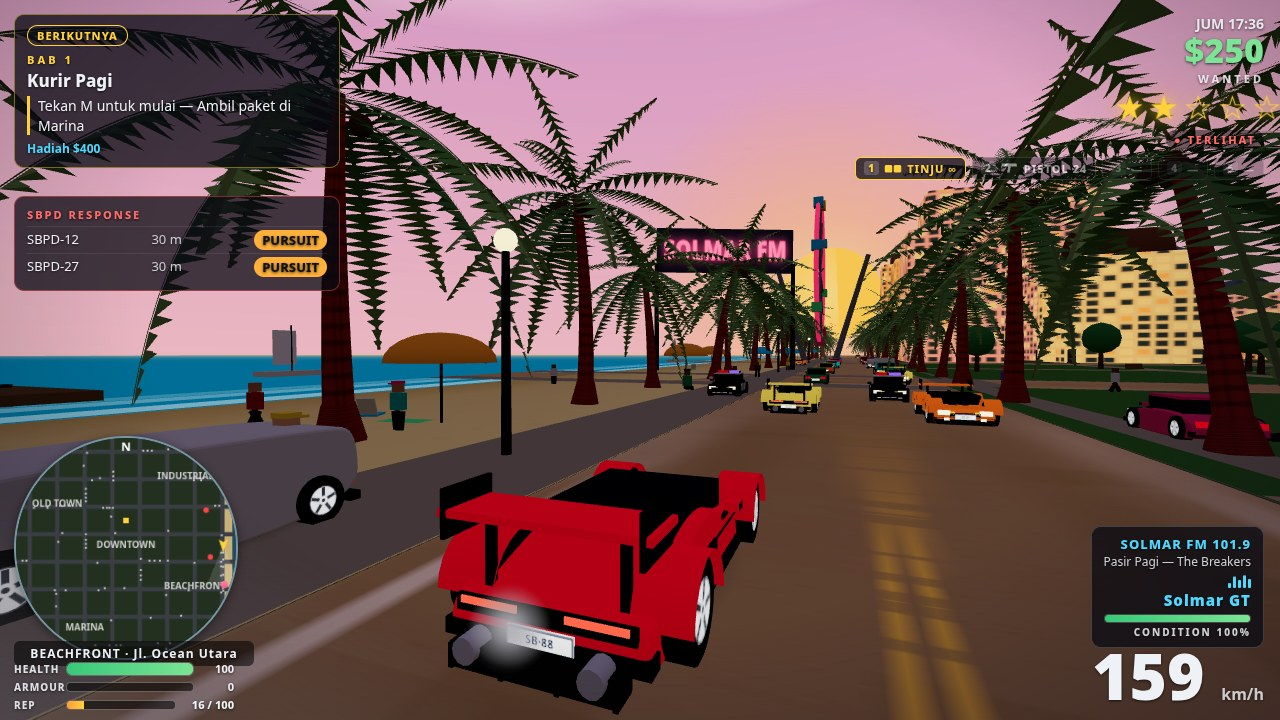
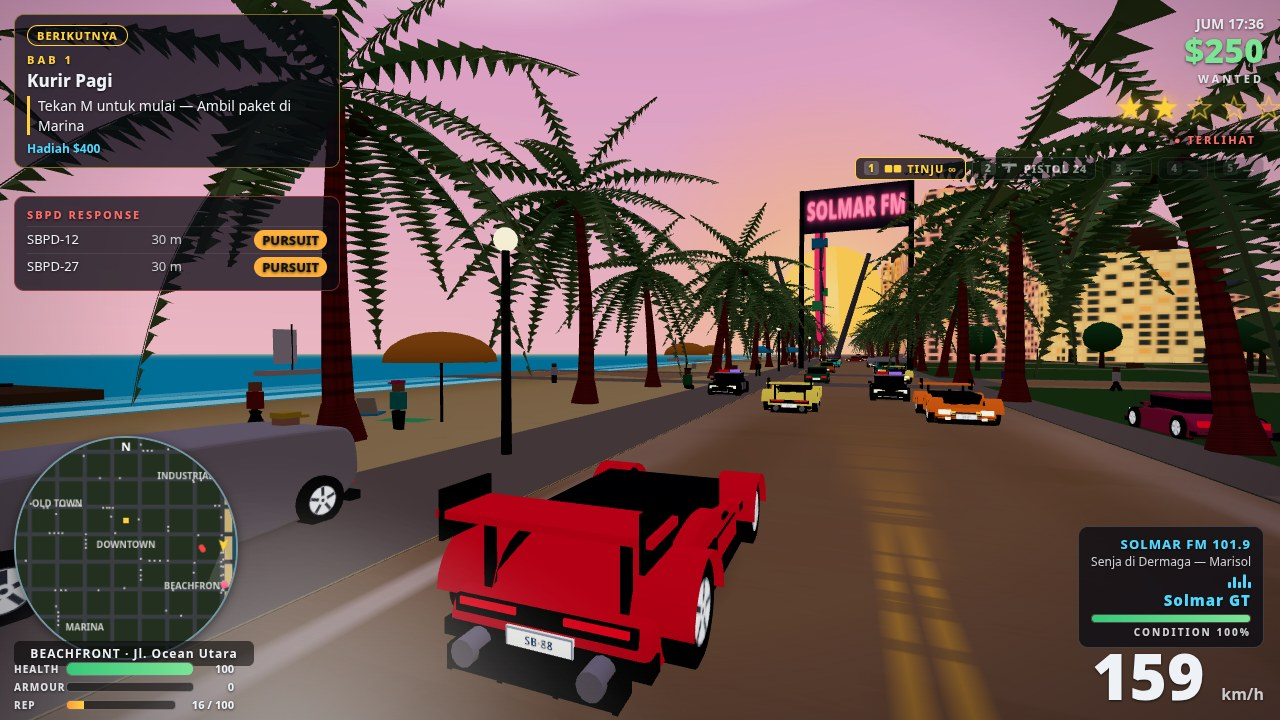
polish r12: rounded frond tips, clear billboard, deep-red taillights

diff --git a/game/src/city.js b/game/src/city.js
@@ -948,6 +948,50 @@ export function buildCity(scene, rng) {
       indices.push(vi, vi + 1, vi + 2);
       vi += 3;
     }
+    function quad(a, b, c, d, color) {
+      tri(a, b, c, color);
+      tri(a, c, d, color);
+    }
+    // Blunt tip for a leaflet blade: instead of one sharp apex (which
+    // reads as a needle up close), the blade ends in a short tip edge
+    // pulled back from the apex, so the tip is a soft rounded rectangle,
+    // not a spike. `a`/`b` are the base edge on the rib, `apex` the old
+    // sharp tip; returns the quad's four corners.
+    function bluntBlade(a, b, apex, pullBack, tipHalf) {
+      const mx = (a[0] + b[0]) / 2;
+      const my = (a[1] + b[1]) / 2;
+      const mz = (a[2] + b[2]) / 2;
+      let ax = apex[0] - mx;
+      let ay = apex[1] - my;
+      let az = apex[2] - mz;
+      const alen = Math.hypot(ax, ay, az) || 1;
+      ax /= alen;
+      ay /= alen;
+      az /= alen;
+      // In-plane perpendicular to the blade axis.
+      let px = (b[0] - a[0]);
+      let py = (b[1] - a[1]);
+      let pz = (b[2] - a[2]);
+      // perp = normalize(cross(axis, baseEdge)) — lies in the blade plane.
+      let qx = ay * pz - az * py;
+      let qy = az * px - ax * pz;
+      let qz = ax * py - ay * px;
+      const qlen = Math.hypot(qx, qy, qz) || 1;
+      qx /= qlen;
+      qy /= qlen;
+      qz /= qlen;
+      const t1 = [
+        apex[0] - ax * pullBack + qx * tipHalf,
+        apex[1] - ay * pullBack + qy * tipHalf,
+        apex[2] - az * pullBack + qz * tipHalf,
+      ];
+      const t2 = [
+        apex[0] - ax * pullBack - qx * tipHalf,
+        apex[1] - ay * pullBack - qy * tipHalf,
+        apex[2] - az * pullBack - qz * tipHalf,
+      ];
+      return [a, b, t2, t1];
+    }
     // Central rib: a thin dark-olive strip along the curve, the frond's
     // visible spine.
     const ribCol = [0.30, 0.42, 0.16].map((v) => v * shade);
@@ -961,7 +1005,8 @@ export function buildCity(scene, rng) {
     // Leaflets: TWO overlapping blades per side at each station. Blade A
     // sweeps back along the rib; blade B sits half a station further out
     // and hangs lower, so the frond's edge reads as a full feather, not
-    // a row of separate needles.
+    // a row of separate needles. Each blade is a blunt-tipped quad, not
+    // a sharp triangle, so the leaflet tips read rounded up close.
     for (let i = 1; i < stations; i += 1) {
       const p = rib[i];
       const pNext = rib[i + 1];
@@ -977,7 +1022,9 @@ export function buildCity(scene, rng) {
           p.y + dirY * L * 0.1 - L * 0.2,
           side * L,
         ];
-        tri([p.x, p.y, 0], [p.x + dirX * segLen * 0.6, p.y + dirY * segLen * 0.6, 0], tipA, col);
+        const baseA0 = [p.x, p.y, 0];
+        const baseA1 = [p.x + dirX * segLen * 0.6, p.y + dirY * segLen * 0.6, 0];
+        quad(...bluntBlade(baseA0, baseA1, tipA, L * 0.2, L * 0.16), col);
         // Blade B: shorter, steeper, hanging below blade A.
         const pB = { x: p.x + dirX * segLen * 0.5, y: p.y + dirY * segLen * 0.5 };
         const tipB = [
@@ -985,7 +1032,9 @@ export function buildCity(scene, rng) {
           pB.y - L * 0.38,
           side * L * 0.82,
         ];
-        tri([pB.x, pB.y, 0], [pB.x + dirX * segLen * 0.45, pB.y + dirY * segLen * 0.45, 0], tipB, col);
+        const baseB0 = [pB.x, pB.y, 0];
+        const baseB1 = [pB.x + dirX * segLen * 0.45, pB.y + dirY * segLen * 0.45, 0];
+        quad(...bluntBlade(baseB0, baseB1, tipB, L * 0.16, L * 0.13), col);
       }
     }
     const geo = new THREE.BufferGeometry();
@@ -1177,13 +1226,37 @@ export function buildCity(scene, rng) {
   billboard(-45, -140, 0, 'SOLMAR BAY', '#4fd8ff');
   billboard(135, 140, Math.PI, 'CASINO', '#ff5e8a');
   billboard(45, 270, 0, 'PIZZA 24H', '#ffb13b');
-  // The reference's giant pink radio billboard — on the SAND side of the
-  // beach road, angled to face the southbound chase cam, so the whole
-  // panel reads (a west-side board hides behind the hotel wall). Our own
-  // station, SOLMAR FM, never the reference's brand. It sits at z=70,
-  // clear of the foreground palm that used to cut it in half in the drive
-  // shot, and the panel rides higher (16 m) than the palm crowns.
-  billboard(334, 70, -2.7, 'SOLMAR FM', '#ff5e8a', true);
+  // The reference's giant pink radio billboard — as an OVERHEAD GANTRY
+  // spanning the Ocean boulevard, not a roadside board. A roadside board
+  // can never read clean here: the drive/chase cameras sit low on the
+  // road, so their sightline to any distant panel crosses the palm
+  // crowns (frond tips reach ~18 m) at every palm between camera and
+  // board — moving it or skipping a few palms just hands the job to the
+  // next palm down the line. The gantry panel hangs over the road
+  // itself, 22–29 m up (above every frond tip), and only 16 m wide so
+  // its text stays over the road centre, clear of both palm lines — with
+  // nothing but open road between the cameras and the panel, SOLMAR FM
+  // reads FULL and CLEAN in every beach-road shot. Our own station,
+  // never the reference's brand. The panel faces north, toward the
+  // southbound cameras.
+  function gantry(z, text, color) {
+    const span = 16;
+    const panelH = 7;
+    const panelY = 25.5;
+    for (const px of [315 - span / 2, 315 + span / 2]) {
+      const post = new THREE.Mesh(new THREE.CylinderGeometry(0.35, 0.45, 29, 10), poleMat);
+      post.position.set(px, 14.5, z);
+      group.add(post);
+    }
+    const panel = new THREE.Mesh(
+      new THREE.PlaneGeometry(span, panelH),
+      new THREE.MeshBasicMaterial({ map: makeSignTexture(text, color) }),
+    );
+    panel.position.set(315, panelY, z);
+    panel.rotation.y = Math.PI;
+    group.add(panel);
+  }
+  gantry(77, 'SOLMAR FM', '#ff5e8a');
   // Beachfront palms: tall RED trunks (the reference's signature) lining
   // BOTH sides of the Ocean boulevard (x=315) — the sand edge east of the
   // road and the sidewalk west of it — every ~14 m, so the beach road

diff --git a/game/src/vehicles.js b/game/src/vehicles.js
@@ -375,8 +375,11 @@ export function createCarModel(typeName, color, rng, hero = false) {
     // material, so braking flares them together.
     box(group, type.width * 0.9, 0.16, 0.06, darkMat, 0, 0.54, -type.length / 2 - 0.02, false);
     // Deep red, not blown pink-white: the strips read as red taillights
-    // (round 9 nit), flaring brighter on braking.
-    stripMat = new THREE.MeshLambertMaterial({ color: 0xd8001a, emissive: 0xd8001a, emissiveIntensity: 2.2 });
+    // (round 9 nit, still pink-white in round 11). ACES tone mapping at
+    // exposure 1.45 desaturates bright emissive toward white, so the
+    // emissive is a DARKER red and the intensity is kept near 1 — the
+    // strips glow deep red instead of blowing out.
+    stripMat = new THREE.MeshLambertMaterial({ color: 0xb00014, emissive: 0x9e0012, emissiveIntensity: 1.1 });
     for (const side of [-1, 1]) {
       box(group, type.width * 0.3, 0.07, 0.04, stripMat, side * type.width * 0.27, 0.58, -type.length / 2 - 0.05, false);
     }
@@ -553,7 +556,7 @@ export function createCarModel(typeName, color, rng, hero = false) {
   };
   group.userData.setBraking = (on) => {
     tailMat.emissiveIntensity = on ? 2.6 : 1.0;
-    if (stripMat) stripMat.emissiveIntensity = on ? 3.0 : 2.2;
+    if (stripMat) stripMat.emissiveIntensity = on ? 1.6 : 1.1;
   };
   return group;
 }
